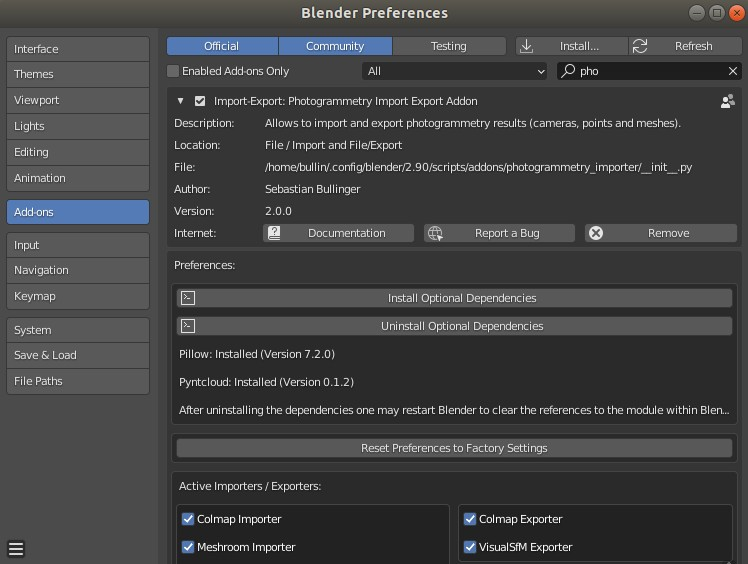
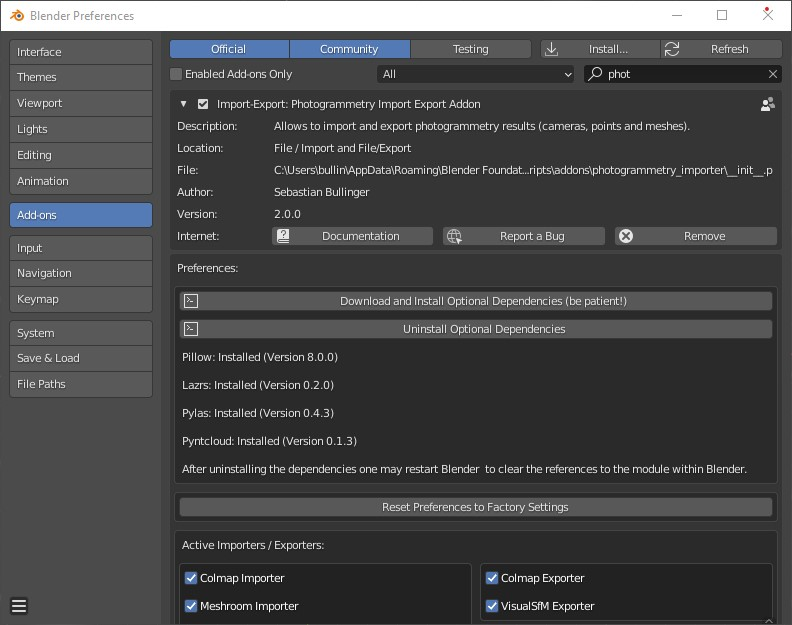
Added pylas and lazrs as optional dependencies

diff --git a/photogrammetry_importer/preferences/dependency_preferences.py b/photogrammetry_importer/preferences/dependency_preferences.py
@@ -17,6 +17,8 @@ class Dependency:
 
 dependencies = (
     Dependency(gui_name="Pillow", package_name="pillow", import_name="PIL"),
+    Dependency(gui_name="Lazrs", package_name="lazrs", import_name="lazrs"),
+    Dependency(gui_name="Pylas", package_name="pylas", import_name="pylas"),
     Dependency(
         gui_name="Pyntcloud", package_name="pyntcloud", import_name="pyntcloud"
     ),

diff --git a/doc/sphinx/source/installation.rst b/doc/sphinx/source/installation.rst
@@ -62,7 +62,7 @@ Follow the instructions on the :doc:`customize <./customize>` page, to adjust th
 Install Optional Dependencies
 =============================
 
-This addon uses `Pillow <https://pypi.org/project/Pillow/>`_ to read the (missing) image sizes from disk - required by the MVE, the Open3D and the VisualSFM importer. Pillow is also used to compute the (missing) point colors for OpenMVG JSON files. Using Pillow instead of Blender's image API significantly improves processing time. Furthermore, this addon uses `Pyntcloud <https://pypi.org/project/pyntcloud/>`_ to import several point cloud formats such as :code:`.ply`, :code:`.pcd`, :code:`.las`, :code:`.asc`, :code:`.pts` and :code:`.csv`.
+This addon uses `Pillow <https://pypi.org/project/Pillow/>`_ to read the (missing) image sizes from disk - required by the MVE, the Open3D and the VisualSFM importer. Pillow is also used to compute the (missing) point colors for OpenMVG JSON files. Using Pillow instead of Blender's image API significantly improves processing time. Furthermore, this addon uses `Pyntcloud <https://pypi.org/project/pyntcloud/>`_ to import several point cloud formats such as :code:`.ply`, :code:`.pcd`, :code:`.las`, :code:`.laz`, :code:`.asc`, :code:`.pts` and :code:`.csv`. For parsing :code:`.las` and :code:`.laz` files `Pylas <https://pypi.org/project/pylas/>`_, `Lazrs <https://pypi.org/project/lazrs/>`_ and :code:`Pyntcloud 0.1.3` (or newer) is required.
 
 Option 1: Installation using the GUI (recommended)
 --------------------------------------------------
@@ -88,12 +88,17 @@ For Linux run: ::
 
 <Blender_Root>/<Version>/python/bin/python3.7m <Blender_Root>/<Version>/python/bin/get-pip.py
 <Blender_Root>/<Version>/python/bin/pip install pillow
+<Blender_Root>/<Version>/python/bin/pip install lazrs
+<Blender_Root>/<Version>/python/bin/pip install laspy
 <Blender_Root>/<Version>/python/bin/pip install pyntcloud
+
 
 For Windows run: ::
 
 <Blender_Root>/<Version>/python/bin/python.exe <Blender_Root>/<Version>/python/bin/get-pip.py
 <Blender_Root>/<Version>/python/Scripts/pip.exe install pillow
+<Blender_Root>/<Version>/python/Scripts/pip.exe install lazrs
+<Blender_Root>/<Version>/python/Scripts/pip.exe install laspy
 <Blender_Root>/<Version>/python/Scripts/pip.exe install pyntcloud
 
 IMPORTANT: Use the full path to the python and the pip executable. Otherwise the system python installation or the system pip executable may be used.

diff --git a/doc/sphinx/source/index.rst b/doc/sphinx/source/index.rst
@@ -40,11 +40,12 @@ In addition, the addon supports some common point cloud data formats:
 
    - `Polygon files <http://paulbourke.net/dataformats/ply/>`_ (PLY) :sup:`3`
    - `Point Cloud Library files <https://github.com/PointCloudLibrary/pcl>`_ (PCD) :sup:`3`
-   - `LASer files <https://www.asprs.org/divisions-committees/lidar-division/laser-las-file-format-exchange-activities>`_ (LAS) :sup:`3`
+   - `LASer files <https://www.asprs.org/divisions-committees/lidar-division/laser-las-file-format-exchange-activities>`_ (LAS) :sup:`3, 4`
+   - `LASzip files <https://laszip.org/>`_ (LAZ) :sup:`3, 4, 5`
    - `Simple ASCII point files <https://www.cloudcompare.org/doc/wiki/index.php?title=FILE_I/O>`_ (ASC, PTS, CSV) :sup:`3`
 
-| :sup:`1` Requires Pillow to read the image sizes from disk. :sup:`2` Requires Pillow for point color computation.
-| :sup:`3` Requires Pyntcloud for parsing.
+| :sup:`1` Requires :code:`pillow` to read image sizes from disk. :sup:`2` Requires :code:`pillow` for point color computation.
+| :sup:`3` Requires :code:`pyntcloud` for parsing. :sup:`4` Requires :code:`pylas` for parsing. :sup:`5` Requires :code:`lazrs` for parsing.
 
 Compatible with Blender 2.8.0 onwards. There is an older version of the addon available for Blender 2.79 that allows to import NVM files - see the `2.79 branch <https://github.com/SBCV/Blender-Import-NVM-Addon/tree/blender279>`_.
 
